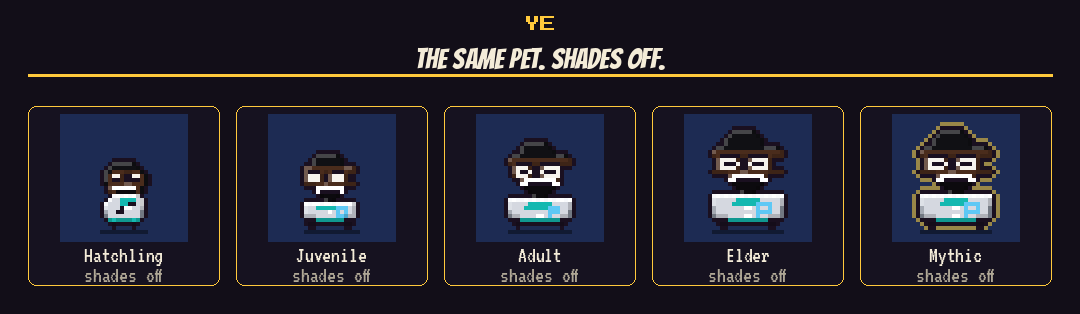
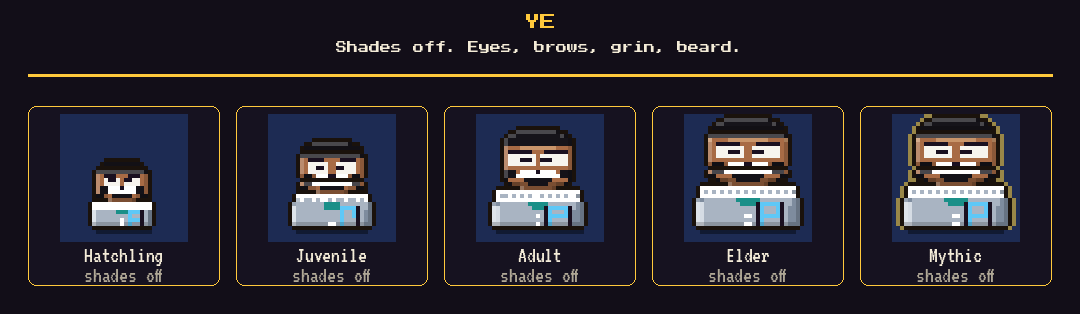
Redraw Ye as a flat-cel bust with the shades off by default.
The face is warm brown with brows, eyes, a white grin and a jaw beard. The jacket is light grey with a ribbed collar, a teal V and a block P. Sheets use Press Start 2P.

diff --git a/design/ye-preview/ye-sprite.js b/design/ye-preview/ye-sprite.js
@@ -4,10 +4,11 @@
  * the hatch pool, or the rules. The preview script injects this object in memory and
  * draws it with PetCore.render + V2Render.anatomyFramesWith.
  *
- * Reads: dark skin, crisp black hairline, short black goatee, white smile, light-grey
- * varsity jacket, white striped collar, white snaps, light-blue "P" on the wearer's
- * left chest (viewer's right), teal shirt. The black shades are NOT baked in. They are
- * the signature Guise piece YE_SHADES, drawn by the live eye fitter, so they come off.
+ * Flat-cel bust from the Heartless video: bold outline, flat colour blocks, a short
+ * black flat-top, warm brown skin, brows and eyes (shades off is the default), a white
+ * grin, a black jaw beard into a goatee, a light-grey varsity jacket (#A9B4C2) with a
+ * white ribbed collar and white snaps, a teal V, and a light-blue block P. The black
+ * shades are the removable Guise piece YE_SHADES, not baked into the face.
  *
  * Colour keys: b jacket (recolours on a hybrid), a the P, l the shirt, 1-4 skin and
  * hair and beard (stay put, so a Ye body still reads as Ye). No bitcoin orange.
@@ -17,99 +18,82 @@
   else root.YeSprite = factory();
 })(this, function () {
   'use strict';
-  /* 22 wide, 26 tall. Two empty rows on top so a hat fits in the frame
-   * (feet sit on canvas row 28, so a 26-row map starts at canvas y=2). */
-  var W = 22, H = 26, g = [];
+  /* 28x28 bust, centred. Mythic fills the frame. Adult keeps every row except 4, 13 and 23,
+   * so the grin, the beard and the P are drawn on rows Adult still shows. */
+  var W = 28, H = 28, g = [];
   for (var i = 0; i < H; i++) g.push(new Array(W).fill('.'));
-  function put(x, y, ch) { if (ch === '.') return; if (y < 0 || y >= H || x < 0 || x >= W) throw new Error('Ye pixel off the map ' + x + ',' + y); g[y][x] = ch; }
-  function stamp(x, y, rows) { rows.forEach(function (row, dy) { for (var dx = 0; dx < row.length; dx++) put(x + dx, y + dy, row.charAt(dx)); }); }
+  function put(x, y, ch) { if (y < 0 || y >= H || x < 0 || x >= W) return; g[y][x] = ch; }
   function fill(x0, x1, y, ch) { for (var x = x0; x <= x1; x++) put(x, y, ch); }
-  /* round black hair cap */
-  stamp(5, 2, ['..333333..', '.33333333.', '3333333333', '3333333333']);
-  /* crisp hairline: one solid hair row, then skin. No fade. */
-  fill(3, 18, 6, '3');
-  fill(2, 19, 7, '1'); fill(3, 18, 7, '1');
-  /* forehead, then two big eyes with a skin bridge so the fitter sees two lenses */
-  fill(2, 19, 8, '1');
-  stamp(3, 9, [
-    '1EEEE1..1EEEE1',
-    '1EPPPE..EPPPE1',
-    '1EEEE1..1EEEE1'
-  ]);
-  fill(2, 19, 12, '1');
-  /* white smile, ink mouth under it, short goatee that does not cover the teeth */
-  stamp(6, 13, [
-    '1wwwwwwww1',
-    'wwmmmmmmww',
-    '.55555555.',
-    '..555555..',
-    '...5555...'
-  ]);
-  /* white-striped collar, teal shirt in the opening, grey jacket */
-  for (var xc = 2; xc <= 19; xc++) put(xc, 18, xc % 2 ? 'w' : '9');
-  fill(2, 19, 19, 'b');
-  fill(8, 13, 19, 'l');
-  fill(2, 19, 20, 'b');
-  fill(7, 14, 20, 'l');
-  /* jacket body, white snaps down the middle, big P on the wearer's left (viewer's right) */
-  for (var yj = 21; yj <= 23; yj++) { fill(2, 19, yj, 'b'); put(2, yj, '7'); put(19, yj, '7'); }
-  [21, 23].forEach(function (y) { put(10, y, 'w'); put(11, y, 'w'); });
-  stamp(13, 20, [
-    'aaaa.',
-    'a..a.',
-    'aaaa.',
-    'a....'
-  ]);
-  /* teal hem under the jacket, two shoes */
-  fill(6, 15, 24, 'l');
-  put(4, 25, '4'); put(5, 25, '4'); put(16, 25, '4'); put(17, 25, '4');
-  var MAP = g.map(function (row) { return row.join(''); });
-  /* Hatchling is 0.62 of this map (14 x 16). A hand grid keeps the eyes, goatee and P,
-   * which the plain downscale turns into noise. Same keys, so gear still finds them. */
-  var SMALL1 = [
-    '....333333....',
-    '...33333333...',
-    '..3311111113..',
-    '..31EE1..EE13.',
-    '..31PP1..PP13.',
-    '..31111111113.',
-    '...1wwwwww13..',
-    '...115555513..',
-    '....9w9w9w9...',
-    '...9bbllllb9..',
-    '..9bbbllPPb9..',
-    '..bbbbPwwbbb..',
-    '..7bbPPbbbb7..',
-    '..7bbbbbbbb7..',
-    '...llllllll...',
-    '....4....4....'
-  ];
-  SMALL1.forEach(function (row, i) {
-    if (row.length !== 14) throw new Error('Ye hatchling row ' + i + ' is ' + row.length);
+  function span(y, x0, x1, ch) { fill(x0, x1, y, ch); }
+  /* flat black crop, same width as the forehead under it. No brim. */
+  span(1, 8, 19, '3');
+  span(2, 6, 21, '3');
+  span(3, 5, 22, '3');
+  span(5, 4, 23, '3');
+  span(6, 4, 23, '2');
+  span(6, 5, 8, '1'); span(6, 19, 22, '1');
+  /* thick brows, then wide eyes with a skin bridge */
+  span(7, 4, 23, '1');
+  span(7, 6, 11, 'B'); span(7, 16, 21, 'B');
+  span(8, 4, 23, '1'); span(9, 4, 23, '1'); span(10, 4, 23, '1');
+  span(8, 6, 12, 'E'); span(8, 15, 21, 'E');
+  span(9, 6, 12, 'E'); span(9, 15, 21, 'E');
+  span(9, 9, 11, 'P'); span(9, 15, 17, 'P');
+  span(10, 6, 12, 'E'); span(10, 15, 21, 'E');
+  span(11, 4, 23, '1');
+  span(12, 4, 23, '1');
+  /* white grin. Beard sits on the jaw beside it, then under it as the goatee. */
+  span(12, 9, 18, 'w'); span(12, 13, 14, 'm');
+  span(12, 5, 7, '5'); span(12, 20, 22, '5');
+  span(14, 4, 23, '1');
+  span(14, 8, 19, 'w');
+  span(14, 5, 7, '5'); span(14, 20, 22, '5');
+  span(15, 4, 23, '5');
+  span(15, 6, 9, '1'); span(15, 18, 21, '1');
+  span(16, 6, 21, '5');
+  span(16, 7, 10, '6'); span(16, 17, 20, '6');
+  span(17, 9, 18, '6');
+  /* ribbed collar: white, grey stripe, white. Shoulders wider than the head. */
+  span(18, 2, 25, 'w');
+  span(19, 2, 25, 'b');
+  for (var xs = 2; xs <= 25; xs += 2) put(xs, 19, 'w');
+  span(20, 2, 25, 'w');
+  /* teal V, then the jacket. The P is outlined in ink so it separates from the grey. */
+  span(21, 1, 26, 'b'); span(21, 1, 2, '7'); span(21, 25, 26, '7');
+  span(21, 11, 16, 'l');
+  span(22, 1, 26, 'b'); span(22, 1, 2, '8'); span(22, 25, 26, '7');
+  span(22, 12, 15, 'l');
+  function jacketRow(y) { span(y, 1, 26, 'b'); span(y, 1, 2, '8'); span(y, 24, 26, '7'); }
+  jacketRow(23); jacketRow(24); jacketRow(25); jacketRow(26); jacketRow(27);
+  /* block P, viewer's right. Rows 22, 24, 25, 26, 27 are the five Adult keeps. */
+  var P = ['kaaaaak', 'kabbbak', 'kabbbak', 'kaaaaak', 'kabbbbk', 'kabbbbk'];
+  [22, 23, 24, 25, 26, 27].forEach(function (y, i) {
+    for (var dx = 0; dx < P[i].length; dx++) put(16 + dx, y, P[i].charAt(dx));
   });
-  if (SMALL1.length !== 16) throw new Error('Ye hatchling height ' + SMALL1.length);
+  put(13, 25, 'w'); put(14, 25, 'w');
+  put(13, 27, 'w'); put(14, 27, 'w');
+  var MAP = g.map(function (row) { return row.join(''); });
   var YE = {
     id: 'ye',
     label: 'Ye',
     w: 0,
     t: 3,
-    canon: { body: '#d5d8e0', accent: '#5ec8f5', belly: '#14b8b0' },
-    outline: '#1a1020',
+    canon: { body: '#A9B4C2', accent: '#5EC8F7', belly: '#1A8F88' },
+    outline: '#1A120C',
     eyeWhite: '#f7f4ee',
-    eyeLid: true,
+    eyeLid: false,
     sunFrame: '#f4f4ee',
     colors: {
-      '1': '#4a2c1c',
-      '2': '#6b4030',
-      '3': '#101014',
-      '4': '#1a1020',
-      '5': '#0c0a0e',
-      '7': '#8b929e',
-      '9': '#f7f8fb'
+      '1': '#A86B45',
+      '2': '#C9956A',
+      '3': '#16141A',
+      '5': '#141218',
+      '6': '#7A4E32',
+      '7': '#7E8C9E',
+      '8': '#D5DCE4'
     },
-    /* band sits in the hair, above the eye rows (9-11). Armor is the jacket only.
-       crownSink 0: a crown rests on the hair, not down across the shades. */
-    gear: { armor: [20, 24, 1], band: 4, scarf: 18, cape: 19, crownSink: 0, crownCol: 11 },
+    /* band in the flat top. Armor on the jacket, under the beard and collar. */
+    gear: { armor: [21, 26, 1], band: 3, scarf: 17, cape: 18, crownSink: 0, crownCol: 13 },
     pose: null,
     arc: [
       ['Cool', 'base', 'keep', 'base'],
@@ -118,8 +102,7 @@
       ['Grinning', 'base', 'keep', 'base'],
       ['Legendary', 'base', 'keep', 'base']
     ],
-    map: MAP,
-    small: { 1: SMALL1 }
+    map: MAP
   };
   /* Signature Guise. Installed onto BonusGear.DEFS by the preview only.
    * s:'glasses' is the live eye fitter: frame, lenses on the real eyes, bridge, short arms.

diff --git a/design/ye-preview/render-sheets.js b/design/ye-preview/render-sheets.js
@@ -58,7 +58,7 @@ var ye = art('ye');
 var stages = [1, 2, 3, 4, 5].map(function (s) {
   return { stage: s, with: one(ye, s, [], shades), bare: one(ye, s, [], []) };
 });
-var bob = frames(ye, 3, [], shades).map(function (d, i) { return { frame: i, px: d }; });
+var bob = frames(ye, 3, [], []).map(function (d, i) { return { frame: i, px: d }; });
 
 /* One live piece per v2 slot. Head is an overlay hat (the PR #40 fitter).
  * Body is legendary gold armour (torso box). Back is the legendary midnight cape. */
@@ -80,12 +80,12 @@ if (!headId || !handId || !feetId || !R.GEAR_BY_ID[bodyId] || !R.GEAR_BY_ID[back
   throw new Error('missing gear ids ' + JSON.stringify({ headId: headId, handId: handId, feetId: feetId, body: !!R.GEAR_BY_ID[bodyId], back: !!R.GEAR_BY_ID[backId] }));
 }
 var slotItems = [
-  { slot: 'Headwear', id: headId, items: [headId], extra: shades },
+  { slot: 'Headwear', id: headId, items: [headId], extra: [] },
   { slot: 'Guise', id: 'ye-shades', items: [], extra: shades },
-  { slot: 'Drip', id: backId, items: [backId], extra: shades },
-  { slot: 'Outfits', id: bodyId, items: [bodyId], extra: shades },
-  { slot: 'Grip', id: handId, items: [handId], extra: shades },
-  { slot: 'Footwear', id: feetId, items: [feetId], extra: shades }
+  { slot: 'Drip', id: backId, items: [backId], extra: [] },
+  { slot: 'Outfits', id: bodyId, items: [bodyId], extra: [] },
+  { slot: 'Grip', id: handId, items: [handId], extra: [] },
+  { slot: 'Footwear', id: feetId, items: [feetId], extra: [] }
 ];
 var worn = slotItems.map(function (s) {
   return { slot: s.slot, id: s.id, label: (R.GEAR_BY_ID[s.id] || Ye.SHADES).label, px: one(ye, 3, s.items, s.extra) };
@@ -96,7 +96,7 @@ var allOn = { slot: 'All six', id: 'all', label: 'All six slots', px: one(ye, 3,
 function hybrid(shape, color) {
   var a = art(shape);
   a.hybrid = { key: 'hyb:' + shape + ':' + color, shape: shape, color: color, feature: 'head', eyes: 'classic', parts: [], roots: [shape, color] };
-  var extra = shape === 'ye' ? shades : [];
+  var extra = [];
   return { shape: shape, color: color, px: one(a, 3, [], extra) };
 }
 var crosses = [

diff --git a/design/ye-preview/compose-sheets.py b/design/ye-preview/compose-sheets.py
@@ -1,6 +1,6 @@
 #!/usr/bin/env python3
 """Turn render-sheets.js frames.json into labelled 4x contact sheets.
-Press Start 2P titles, Bangers for the meme line, VT323 for the small labels.
+Headers are Press Start 2P, the site pixel font. Small labels are VT323.
 """
 import json
 import os
@@ -9,7 +9,7 @@ from PIL import Image, ImageDraw, ImageFont
 
 FONT = os.environ.get('YE_FONTS', '/tmp/ye-fonts')
 PS2 = ImageFont.truetype(os.path.join(FONT, 'PressStart2P.ttf'), 16)
-BANG = ImageFont.truetype(os.path.join(FONT, 'Bangers-Regular.ttf') if os.path.exists(os.path.join(FONT, 'Bangers-Regular.ttf')) else os.path.join(FONT, 'Bangers.ttf'), 28)
+PS2S = ImageFont.truetype(os.path.join(FONT, 'PressStart2P.ttf'), 11)
 VT = ImageFont.truetype(os.path.join(FONT, 'VT323.ttf'), 22)
 GOLD = (255, 201, 60)
 CREAM = (244, 236, 216)
@@ -48,8 +48,8 @@ def sheet(title, meme, cells, cols):
     H = head + pad + rows * cell_h + (rows - 1) * gap + pad
     im = Image.new('RGB', (W, H), INK)
     d = ImageDraw.Draw(im)
-    center(d, 16, title, PS2, GOLD, W)
-    center(d, 44, meme, BANG, CREAM, W)
+    center(d, 14, title, PS2, GOLD, W)
+    center(d, 42, meme, PS2S, CREAM, W)
     d.rectangle((pad, 74, W - pad, 76), fill=GOLD)
     for i, (pic, label, sub) in enumerate(cells):
         c, r = i % cols, i // cols
@@ -72,6 +72,61 @@ def sheet(title, meme, cells, cols):
     return im
 
 
+def blow(px, scale):
+    im = Image.frombytes('RGBA', (32, 32), bytes(px)).convert('RGB')
+    return im.resize((32 * scale, 32 * scale), Image.Resampling.NEAREST)
+
+
+def reference_bust(height):
+    ref = Image.open('/cursor/stores/bot/refs/ye-reference.jpg').convert('RGB')
+    w, h = ref.size
+    crop = ref.crop((int(w * 0.34), int(h * 0.0), int(w * 0.66), int(h * 0.99)))
+    nw = max(1, int(crop.width * height / crop.height))
+    return crop.resize((nw, height), Image.Resampling.BOX)
+
+
+def labeled_row(title, meme, pics):
+    """pics: list of (image, label). Images already scaled."""
+    pad, gap = 28, 18
+    head = 78
+    widths = [p.width for p, _ in pics]
+    row_w = sum(widths) + gap * (len(pics) - 1)
+    Wd = max(1080, row_w + pad * 2)
+    lab = 36
+    H = head + pad + pics[0][0].height + lab + pad
+    im = Image.new('RGB', (Wd, H), INK)
+    d = ImageDraw.Draw(im)
+    center(d, 14, title, PS2, GOLD, Wd)
+    center(d, 42, meme, PS2S, CREAM, Wd)
+    d.rectangle((pad, 74, Wd - pad, 76), fill=GOLD)
+    x = (Wd - row_w) // 2
+    y = head + pad
+    for pic, label in pics:
+        d.rounded_rectangle((x - 8, y - 8, x + pic.width + 8, y + pic.height + lab), radius=8, outline=GOLD)
+        im.paste(pic, (x, y))
+        box = d.textbbox((0, 0), label, font=VT)
+        d.text((x + (pic.width - (box[2] - box[0])) // 2, y + pic.height + 6), label, font=VT, fill=CREAM)
+        x += pic.width + gap
+    return im
+
+
+def versus_reference(data):
+    scale = 8
+    ref = reference_bust(32 * scale)
+    off = blow(data['stages'][2]['bare'], scale)
+    on = blow(data['stages'][2]['with'], scale)
+    return labeled_row('YE', 'Adult next to the Heartless reference.', [
+        (ref, 'Reference'), (off, 'Ye shades off'), (on, 'Ye shades on')])
+
+
+def versus_v1(old, new):
+    scale = 8
+    return labeled_row('YE', 'Adult close-up. v1 then v2.', [
+        (blow(old['stages'][2]['bare'], scale), 'v1'),
+        (blow(new['stages'][2]['bare'], scale), 'v2 shades off'),
+        (blow(new['stages'][2]['with'], scale), 'v2 shades on')])
+
+
 def main():
     src, out = sys.argv[1], sys.argv[2]
     data = json.load(open(src))
@@ -80,26 +135,29 @@ def main():
     def cell(px, label, sub=''):
         return (sprite(px), label, sub)
 
-    stages = [cell(s['with'], STAGES[i], 'shades on') for i, s in enumerate(data['stages'])]
+    stages = [cell(s['bare'], STAGES[i], '') for i, s in enumerate(data['stages'])]
     bare = [cell(s['bare'], STAGES[i], 'shades off') for i, s in enumerate(data['stages'])]
-    bob = [cell(b['px'], 'frame ' + str(b['frame'] + 1), 'Adult bob') for b in data['bob']]
+    bob = [cell(b['px'], 'frame ' + str(b['frame'] + 1), 'Adult') for b in data['bob']]
     gear = [cell(w['px'], w['slot'], w['label']) for w in data['worn']]
     gear.append(cell(data['allOn']['px'], 'All six', 'worn together'))
-    shades = [cell(data['stages'][2]['with'], 'Ye', 'shades on'), cell(data['stages'][2]['bare'], 'Ye', 'shades off')]
+    shades = [cell(data['stages'][2]['bare'], 'Ye', 'shades off'), cell(data['stages'][2]['with'], 'Ye', 'shades on')]
     names = {'pepe': 'Pepe', 'peepo': 'Peepo', 'doge': 'Doge', 'wojak': 'Wojak'}
     for w in data['wearers']:
-        shades.append(cell(w['px'], names[w['species']], 'Ye shades'))
+        shades.append(cell(w['px'], names[w['species']], 'shades'))
     nice = {'ye': 'Ye', 'pepe': 'Pepe', 'doge': 'Doge', 'wojak': 'Wojak', 'dodo': 'Dodo'}
     hybrids = [cell(c['px'], nice[c['shape']] + ' times ' + nice[c['color']], 'Adult') for c in data['crosses']]
 
     files = [
-        ('01-stages.png', sheet('YE', 'Legendary. Shades on. Hatchling through Mythic.', stages, 5)),
-        ('02-without-shades.png', sheet('YE', 'The same pet. Shades off.', bare, 5)),
-        ('03-gear-slots.png', sheet('YE', 'Six slots, on the live anchors.', gear, 4)),
-        ('04-shades.png', sheet('BLACK SHADES', 'Ye, on and off. Then Pepe, Peepo, Doge, Wojak.', shades, 6)),
-        ('05-hybrids.png', sheet('YE TIMES THE ROSTER', 'His shape in their colours, and the other way.', hybrids, 3)),
+        ('01-stages.png', sheet('YE', 'Hatchling through Mythic. Shades off.', stages, 5)),
+        ('02-without-shades.png', sheet('YE', 'Shades off. Eyes, brows, grin, beard.', bare, 5)),
+        ('03-gear-slots.png', sheet('YE', 'Six slots on the live anchors.', gear, 4)),
+        ('04-shades.png', sheet('YE', 'Shades off, shades on, then Pepe, Peepo, Doge, Wojak.', shades, 6)),
+        ('05-hybrids.png', sheet('YE', 'Ye times the roster. Shades off.', hybrids, 3)),
         ('06-idle-bob.png', sheet('YE', 'Adult idle. The whole pet bobs.', bob, 4)),
     ]
+    files.append(('00-vs-reference.png', versus_reference(data)))
+    if len(sys.argv) > 3 and os.path.exists(sys.argv[3]):
+        files.append(('07-adult-v1-v2.png', versus_v1(json.load(open(sys.argv[3])), data)))
     for name, im in files:
         path = os.path.join(out, name)
         im.save(path)
